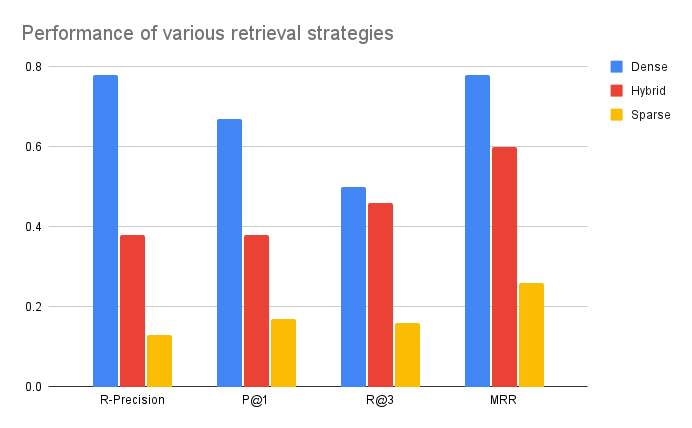
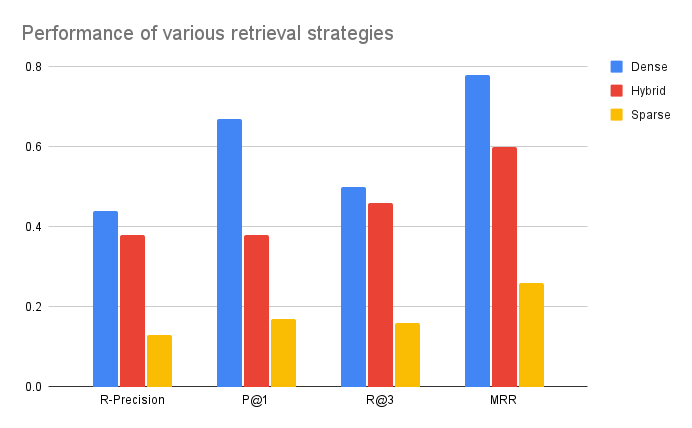
Option for multi-query retrieval (#51)
* Don't filter out .ipynb files.

* Fail explicitly when the repo cannot be cloned.

* Fix indentation in retrieve.py

* Update default OpenAI embedding model to text-embedding-3-small

* Update plot which over-estimated R-Precision for Dense (it was a copy-paste error). The take-away still holds.

* Add multi-query retriever

* Update README with available retrieval strategeis.

* Add LLM flags to retrieve_kaggle.py

Changed region(s): [[0.1214, 0.1519, 0.1821, 0.5164]]

diff --git a/sage/retriever.py b/sage/retriever.py
@@ -1,7 +1,9 @@
 from langchain.retrievers import ContextualCompressionRetriever
+from langchain.retrievers.multi_query import MultiQueryRetriever
 from langchain_openai import OpenAIEmbeddings
 from langchain_voyageai import VoyageAIEmbeddings
 
+from sage.llm import build_llm_via_langchain
 from sage.reranker import build_reranker
 from sage.vector_store import build_vector_store_from_args
 
@@ -19,6 +21,11 @@ def build_retriever_from_args(args):
     retriever = build_vector_store_from_args(args).as_retriever(
         top_k=args.retriever_top_k, embeddings=embeddings, namespace=args.index_namespace
     )
+
+    if args.multi_query_retriever:
+        retriever = MultiQueryRetriever.from_llm(
+            retriever=retriever, llm=build_llm_via_langchain(args.llm_provider, args.llm_model)
+        )
 
     reranker = build_reranker(args.reranker_provider, args.reranker_model, args.reranker_top_k)
     if reranker:

diff --git a/benchmarks/retrieval/retrieve.py b/benchmarks/retrieval/retrieve.py
@@ -38,6 +38,7 @@ def main():
     parser.add("--max-instances", default=None, type=int, help="Maximum number of instances to process.")
 
     sage.config.add_config_args(parser)
+    sage.config.add_llm_args(parser)  # Needed for --multi-query-retriever, which rewrites the query with an LLM.
     sage.config.add_embedding_args(parser)
     sage.config.add_vector_store_args(parser)
     sage.config.add_reranking_args(parser)
@@ -97,9 +98,9 @@ def main():
         with open(output_file, "w") as f:
             json.dump(out_data, f, indent=4)
 
-        for key in sorted(results.keys()):
-            print(f"{key}: {results[key]}")
-        print(f"Predictions and metrics saved to {output_file}")
+    for key in sorted(results.keys()):
+        print(f"{key}: {results[key]}")
+    print(f"Predictions and metrics saved to {output_file}")
 
 
 if __name__ == "__main__":

diff --git a/sage/index.py b/sage/index.py
@@ -58,7 +58,14 @@ def main():
             inclusion_file=args.include,
             exclusion_file=args.exclude,
         )
-        repo_manager.download()
+
+        success = repo_manager.download()
+        if not success:
+            raise ValueError(
+                f"Unable to clone {args.repo_id}. Please check that it exists and you have access to it. "
+                "For private repositories, please set the GITHUB_TOKEN variable in your environment."
+            )
+
         logging.info("Embedding the repo...")
         chunker = UniversalFileChunker(max_tokens=args.tokens_per_chunk)
         repo_embedder = build_batch_embedder_from_flags(repo_manager, chunker, args)

diff --git a/sage/config.py b/sage/config.py
@@ -145,6 +145,13 @@ def add_vector_store_args(parser: ArgumentParser) -> Callable:
     parser.add(
         "--retriever-top-k", default=25, type=int, help="The number of top documents to retrieve from the vector store."
     )
+    parser.add(
+        "--multi-query-retriever",
+        action=argparse.BooleanOptionalAction,
+        default=False,
+        help="When set to True, we rewrite the query 5 times, perform retrieval for each rewrite, and take the union "
+        "of retrieved documents. See https://python.langchain.com/v0.1/docs/modules/data_connection/retrievers/MultiQueryRetriever/."
+    )
     return validate_vector_store_args
 
 

diff --git a/benchmarks/retrieval/retrieve_kaggle.py b/benchmarks/retrieval/retrieve_kaggle.py
@@ -22,6 +22,7 @@ def main():
     parser.add("--output-file", required=True, help="Path to the output file with predictions.")
 
     sage.config.add_config_args(parser)
+    sage.config.add_llm_args(parser)  # Necessary for --multi-query-retriever, which calls an LLM.
     sage.config.add_embedding_args(parser)
     sage.config.add_vector_store_args(parser)
     sage.config.add_reranking_args(parser)

diff --git a/sage/chunker.py b/sage/chunker.py
@@ -291,7 +291,7 @@ class IpynbFileChunker(Chunker):
 
         for chunk in chunks:
             # Update filenames back to .ipynb
-            chunk.metadata = metadata
+            chunk.metadata["file_path"] = filename
         return chunks
 
 

diff --git a/README.md b/README.md
@@ -143,11 +143,13 @@ If you are planning on indexing GitHub issues in addition to the codebase, you w
 
 <details>
 <summary><strong>:lock: Working with private repositories</strong></summary>
-To index and chat with a private repository, simply set the GITHUB_TOKEN environment variable. To obtain this token: go to github.com > click on your profile icon > Settings > Developer settings > Personal access tokens. You can either make a fine-grained token for the desired repository, or a classic token.
+
+To index and chat with a private repository, simply set the `GITHUB_TOKEN` environment variable. To obtain this token, go to github.com > click on your profile icon > Settings > Developer settings > Personal access tokens. You can either make a fine-grained token for the desired repository, or a classic token.
 
 ```
 export GITHUB_TOKEN=...
 ```
+
 </details>
 
 <details>
@@ -181,10 +183,12 @@ To specify an exclusion file (i.e. index all files, except for the ones specifie
 sage-index $GITHUB_REPO --exclude=/path/to/exclusion/file
 ```
 By default, we use the exclusion file [sample-exclude.txt](sage/sample-exclude.txt).
+
 </details>
 
 <details>
 <summary><strong>:bug: Index open GitHub issues</strong></summary>
+
 You will need a GitHub token first:
 
 ```
@@ -205,6 +209,26 @@ To index GitHub issues, but not the codebase:
 ```
 sage-index $GITHUB_REPO --index-issues --no-index-repo
 ```
+
+</details>
+
+<details>
+<summary><strong>:books: Experiment with retrieval strategies</strong></summary>
+
+Retrieving the right files from the vector database is arguably the quality bottleneck of the system. We are actively experimenting with various retrieval strategies and documenting our findings [here](benchmark/retrieval/README.md).
+
+Currently, we support the following types of retrieval:
+- **Vanilla RAG** from a vector database (nearest neighbor between dense embeddings). This is the default.
+- **Hybrid RAG** that combines dense retrieval (embeddings-based) with sparse retrieval (BM25). Use `--retrieval-alpha` to weigh the two strategies.
+
+    - A value of 1 means dense-only retrieval and 0 means BM25-only retrieval.
+    - Note this is not available when running locally, only when using Pinecone as a vector store.
+    - Contrary to [Anthropic's findings](https://www.anthropic.com/news/contextual-retrieval), we find that BM25 is actually damaging performance *on codebases*, because it gives undeserved advantage to Markdown files.
+
+- **Multi-query retrieval** performs multiple query rewrites, makes a separate retrieval call for each, and takes the union of the retrieved documents. You can activate it by passing `--multi-query-retrieval`.
+
+    - We find that [on our benchmark](benchmark/retrieval/README.md) this only marginally improves retrieval quality (from 0.44 to 0.46 R-precision) while being significantly slower and more expensive due to LLM calls. But your mileage may vary.
+
 </details>
 
 # Why chat with a codebase?
